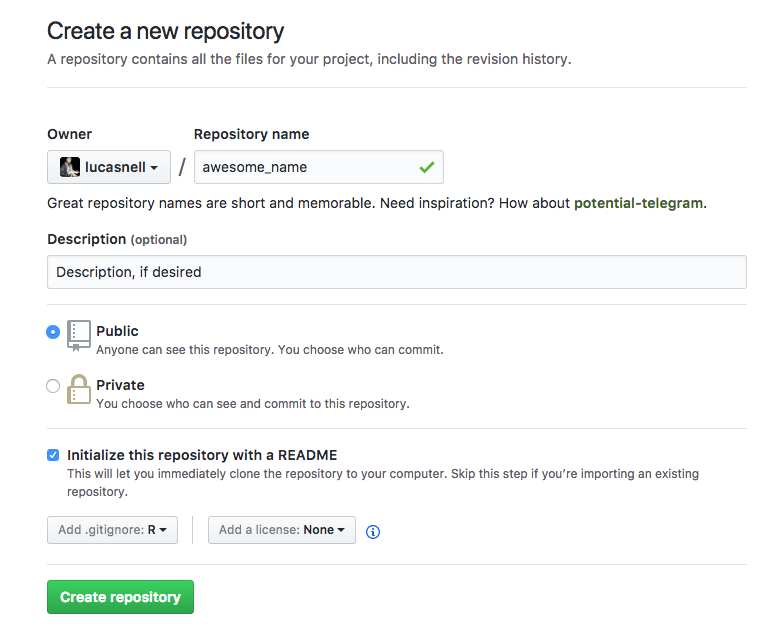
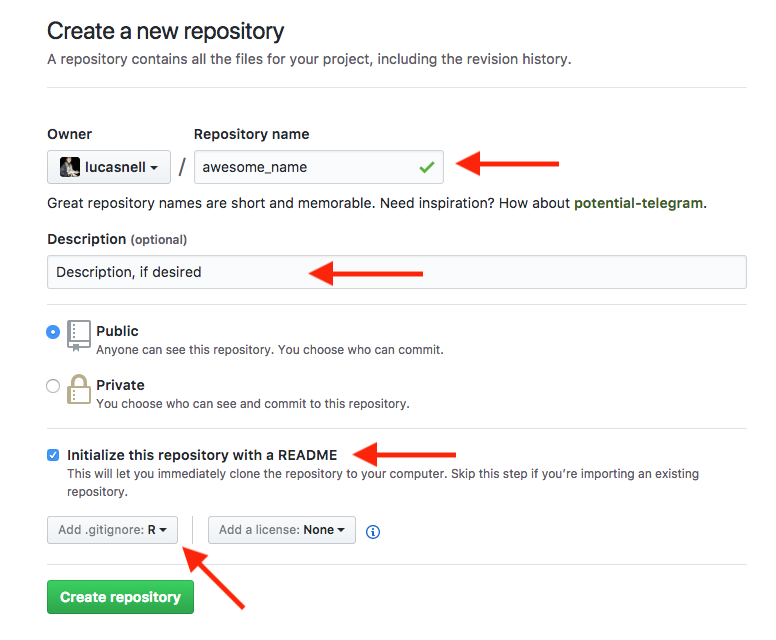
Finished with instructions through pushing

diff --git a/github_gsis.md b/github_gsis.md
@@ -5,7 +5,11 @@ date: 11 Oct 2017
 autosize: true
 font-family: Helvetica Neue
 
+
+
 <small>`lucasnell.com/github_gsis`</small>
+
+
 
 
 
@@ -27,8 +31,11 @@ Prerequisites
 - R and RStudio
 
 
+
 Setting global git options
 ========================================================
+
+In RStudio, `Tools` > `Shell...`
 
 Set global defaults for name and email.
 Make sure the email below is the one you use for your GitHub account
@@ -76,7 +83,7 @@ Making and viewing key
 Adding key to GitHub
 ====================
 
-Login to `github.com` in a web browser
+Login to `github.com` in web browser
 
 Go to `https://github.com/settings/ssh`
 
@@ -89,46 +96,80 @@ Paste your key into the "Key" box
 <img src="img/add_ssh.png" height="50" width="163">
 
 
-Create a new repository
-========================================================
-type: section
-
-1. Initiate new repository
-2. Describe and create repository
-3. 
-
-
-
-
-
-
-
-
-
-
-
-
-
-
-
-
-
-
-
-<!---
-Credits
+Initiate new repository
 ========================================================
 
-![command line](http://happygitwithr.com/img/command-line-git-screenshot.png)
+<div>
+From <code>github.com</code>:
+<img src="img/new_repo.png" height="50" width="200" style="vertical-align: middle">
+</div>
 
-![git ide](http://happygitwithr.com/img/sourcetree-screenshot.png)
+From profile page:
 
-- [GitKraken](https://www.gitkraken.com/)
-- [SourceTree](http://www.sourcetreeapp.com/)
+<img src="img/new_repo2.png" height="150" width="852">
 
 
-Connecting to GitHub through command line: 
-`http://happygitwithr.com/push-pull-github.html`
+Describe and create new repository
+========================================================
 
--->
+<img src="img/new_repo_info.png" height="640" width="776">
 
+
+Clone repository in RStudio
+========================================================
+
+`File` > `New Project` > `Version Control` > `Git`
+
+<img src="img/clone_repo.png" height="545" width="766">
+
+
+Make local changes
+========================================================
+
+If just using a test repo, edit the `README.md` file and save changes.
+
+If wanting to move a directory over to GitHub, copy those files into the 
+new repository's folder
+
+
+Commit and Push
+========================================================
+
+
+- Under "Git" tab, checked "Staged" for file(s) that you changed or added
+- Hit "Commit"
+- Add _useful_ commit message
+<div align="left">
+<img src="https://imgs.xkcd.com/comics/git_commit.png">
+</div>
+- Hit "Commit"
+
+
+
+
+
+
+
+
+
+
+
+
+
+
+<!-- Credits -->
+<!-- ======================================================== -->
+
+<!-- ![command line](http://happygitwithr.com/img/command-line-git-screenshot.png) -->
+
+<!-- ![git ide](http://happygitwithr.com/img/sourcetree-screenshot.png) -->
+
+<!-- - [GitKraken](https://www.gitkraken.com/) -->
+<!-- - [SourceTree](http://www.sourcetreeapp.com/) -->
+
+
+<!-- Connecting to GitHub through command line:  -->
+<!-- `http://happygitwithr.com/push-pull-github.html` -->
+
+
+<!-- 'https://image.slidesharecdn.com/2-git-dag-150928235519-lva1-app6891/95/2-git-dag-14-638.jpg' -->
